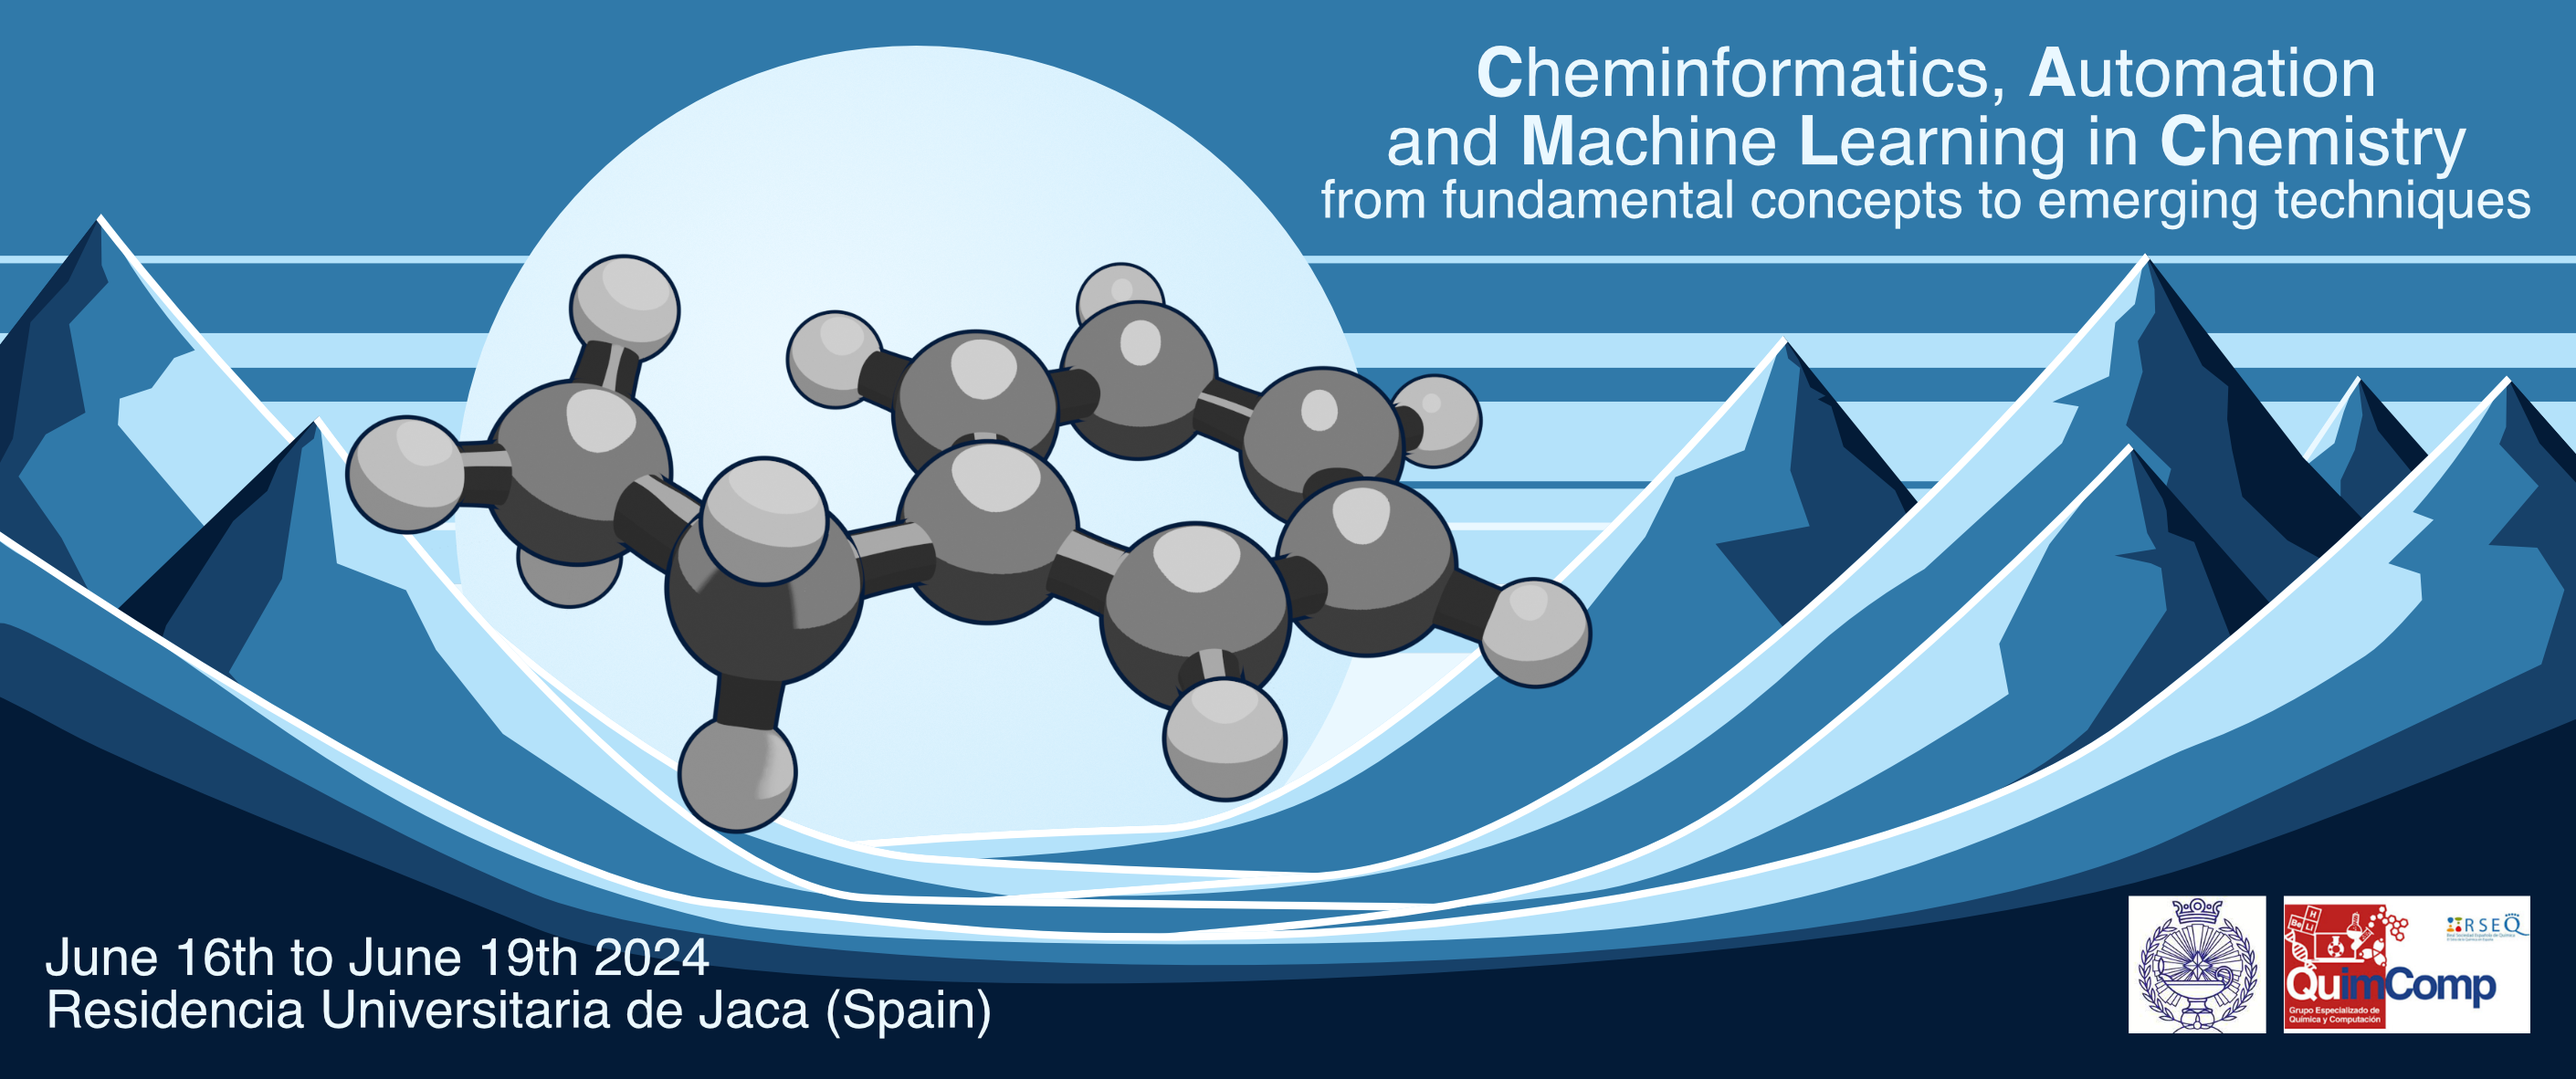
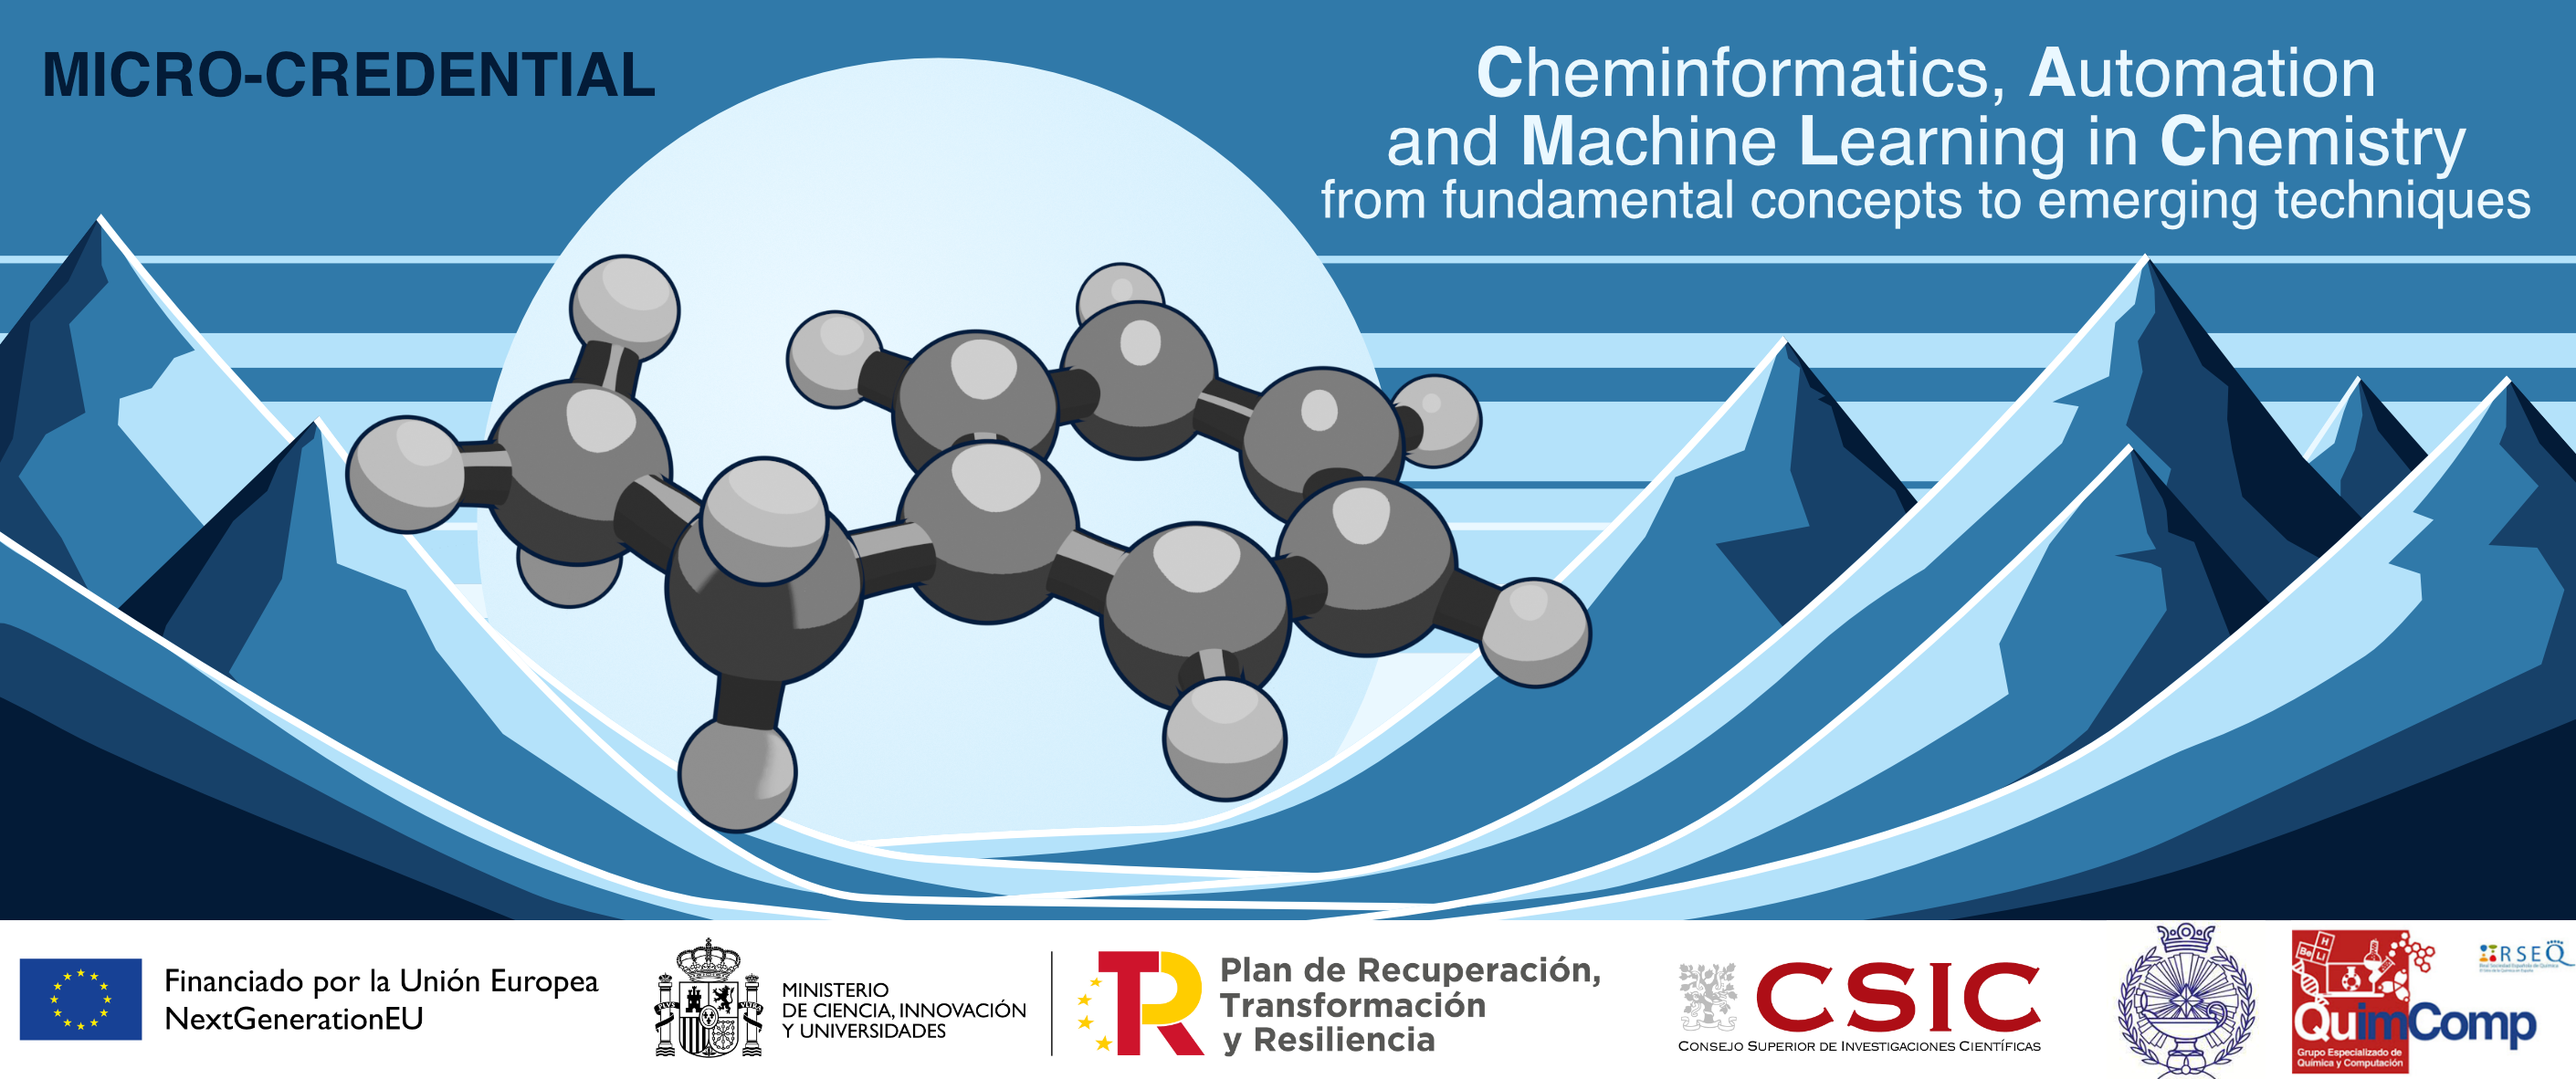
1. Update micro-credential

diff --git a/pages/about.md b/pages/about.md
@@ -5,10 +5,10 @@ feature-img: "assets/img/header/tab_back.png"
 position: 1
 ---
 
-### The CAMLC24 workshop
+### The CAMLC24 micro-credential
 <p align="justify">
 
-The "Cheminformatics, Automation and Machine Learning in Chemistry: from fundamental concepts to emerging techniques" (or CAMLC for short) workshop aims to introduce attendees to the use and development of emerging digital technologies in chemistry. Initially, attendees will review various functions of Python, particularly those related to modules commonly used in cheminformatics. Once users are familiar with Python environments and Jupyter Notebooks, machine learning will be introduced, with a focus on state-of-the-art implementations in the field of chemistry. It is particularly relevant for attendees who work with the following:</p>
+The "Cheminformatics, Automation and Machine Learning in Chemistry: from fundamental concepts to emerging techniques" (or CAMLC for short) micro-credential aims to introduce attendees to the use and development of emerging digital technologies in chemistry. Initially, attendees will review various functions of Python, particularly those related to modules commonly used in cheminformatics. Once users are familiar with Python environments and Jupyter Notebooks, machine learning will be introduced, with a focus on state-of-the-art implementations in the field of chemistry. It is particularly relevant for attendees who work with the following:</p>
 
 * Gaussian and ORCA calculations<br>
 * Machine learning modeling<br>
@@ -21,8 +21,8 @@ The "Cheminformatics, Automation and Machine Learning in Chemistry: from fundame
 ### Requirements
 
 * Basic level of computational chemistry. Preferably, applicants should be familiar with using Gaussian or ORCA and running jobs with bash or SLURM scripts
-* Good command of English (language of the workshop)
-* Participants must bring their own laptops to follow the workshop
+* Good command of English (language of the micro-credential)
+* Participants must bring their own laptops to follow the micro-credential
 * Sessions are in-person only
 
 <br>

diff --git a/pages/sponsors.md b/pages/sponsors.md
@@ -7,11 +7,13 @@ position: 7
 
 ### Funding agencies
 
-<p align="justify">Thanks to the <a href='https://geqc.rseq.org/'>Computers in Chemistry Group (GEQC) of the Spanish Royal Society of Chemistry (RSEQ)</a>, students are benefiting from very low registration fees that cover their stays at the <a href='https://resijaca.unizar.es/'>Residencia Universitaria de Jaca</a> and their meals. Additionally, GEQC members receive a 30 EUR discount on their fees.
+<p align="justify">Thanks to the <a href='https://geqc.rseq.org/'>Computers in Chemistry Group (GEQC) of the Spanish Royal Society of Chemistry (RSEQ)</a>, students are benefiting from very low registration fees that cover their stays at the <a href='https://resijaca.unizar.es/'>Residencia Universitaria de Jaca</a> and their meals. Additionally, GEQC members receive a 30 EUR discount on their fees.</p>
 
-Thanks to the <a href='https://colegioquimicos.com/'>Colegio de Químicos de la Comunidad Valenciana</a>, two students will be awarded travel grants of 80 EUR each.</p>
+<p align="justify">Thanks to the <a href='https://colegioquimicos.com/'>Colegio de Químicos de la Comunidad Valenciana</a>, two students will be awarded travel grants of 80 EUR each.</p>
 
-<html>
+<p align="justify">Thanks to the <a href='https://www.csic.es/en'>Consejo Superior de Investigaciones Científicas (CSIC)</a>, the <a href='https://www.ciencia.gob.es/en/'>Ministry of Science, Innovation and Universities of Spain (MCIN)</a>, and <a href='https://next-generation-eu.europa.eu/index_en'>NextGenerationEU</a>, the CAMLC24 has achieved the category of micro-credential. Additionally, these organizations provide funds to cover trips and maintenance for the organizing committee.</p>
+
+<!-- <html>
 <head>
 <style>
 #customers {
@@ -45,5 +47,5 @@ Thanks to the <a href='https://colegioquimicos.com/'>Colegio de Químicos de la 
 </table>
 
 </body>
-</html>
+</html> -->
 

diff --git a/pages/pricing.md b/pages/pricing.md
@@ -5,17 +5,17 @@ feature-img: "assets/img/header/tab_back.png"
 position: 5
 ---
 
-###  Workshop registration fee and what is included
+###  Micro-credential registration fee and what is included
 
-* 140 EUR for <a href='https://geqc.rseq.org/'>GEQC</a> members (this option might be preferred since joining the <a href='https://geqc.rseq.org/'>GEQC</a> group is 10 EUR/year)<br>
-* 170 EUR for all the other participants<br><br>
+* 170 EUR for <a href='https://geqc.rseq.org/'>GEQC</a> members (this option might be preferred since joining the <a href='https://geqc.rseq.org/'>GEQC</a> group is 10 EUR/year)<br>
+* 205 EUR for all the other participants<br><br>
 
 <u>This fee includes:</u><br>
 
 <p align="justify">
 &#9900; Three nights at the <a href='https://resijaca.unizar.es/'>Residencia Universitaria de Jaca</a> in a shared two-person room (Sunday, Monday, and Tuesday)<br>
-&#9900; Three breakfasts at the <a href='https://resijaca.unizar.es/'>Residencia Universitaria de Jaca</a> (Monday, Tuesday, and Wednesday)<br>
-&#9900; Three lunches at the <a href='https://resijaca.unizar.es/'>Residencia Universitaria de Jaca</a> (Monday, Tuesday, and Wednesday)<br>
-&#9900; Three dinners at a local restaurant (Sunday, Monday and Tuesday, place to be decided)<br></p>
+&#9900; Three breakfasts from the <a href='https://pasteleriavincelle.com/'>Pasteleria Vincelle</a> (Monday, Tuesday, and Wednesday)<br>
+&#9900; Two lunches at the <a href='https://www.restaurantebiarritz.com/'>Restaurante Asador Biarritz</a> (Monday and Tuesday)<br>
+&#9900; Three dinners (Sunday, Monday and Tuesday) and a lunch (Wednesday) at the <a href='https://www.jaca.com/restaurantes/lilium.php'>Restaurante Lilium</a> <br></p>
 
 <br>

diff --git a/pages/application.md b/pages/application.md
@@ -5,10 +5,9 @@ feature-img: "assets/img/header/tab_back.png"
 position: 4
 ---
 
-### Application to enroll in the workshop
+### Application to enroll in the micro-credential
 
 <p align="justify">
 We're currently evaluating the applications.</p><br>
 
-<i>Up to 25 attendees will be accepted. Applicants will be selected based on the potential value of the workshop for them, with their motivation letter and CV serving as criteria. Selected applicants will be notified no later than April 7.</i><br><br>
-
+<i>Up to 30 attendees will be accepted. Applicants will be selected based on the potential value of the micro-credential for them, with their motivation letter and CV serving as criteria. Selected applicants will be notified no later than April 7.</i><br><br>

diff --git a/pages/schedule.md b/pages/schedule.md
@@ -5,9 +5,9 @@ feature-img: "assets/img/header/tab_back.png"
 position: 3
 ---
 
-### Workshop schedule
+### Micro-credential schedule
 
-<p align="justify">The attendants will arrive in Jaca on the afternoon of June 16th (at any time after 17:00) and sleep at the venue. The organizers and the available attendants will arrange an informal dinner that night. The program of the workshop is presented below.</p>
+<p align="justify">The attendants will arrive in Jaca on the afternoon of June 16th (at any time after 17:00) and sleep at the venue. The organizers and the available attendants will arrange an informal dinner that night. The program of the micro-credential is presented below.</p>
 
 <html>
 <head>

diff --git a/README.md b/README.md
@@ -1,6 +1,6 @@
-# Repository of the CAMLC24 workshop
+# Repository of the CAMLC24 micro-credential
 
-For more information about the workshop, please visit the [official webpage](https://jvalegre.github.io/).
+For more information about the micro-credential, please visit the [official webpage](https://jvalegre.github.io/).
 
 <br>
 <br>
